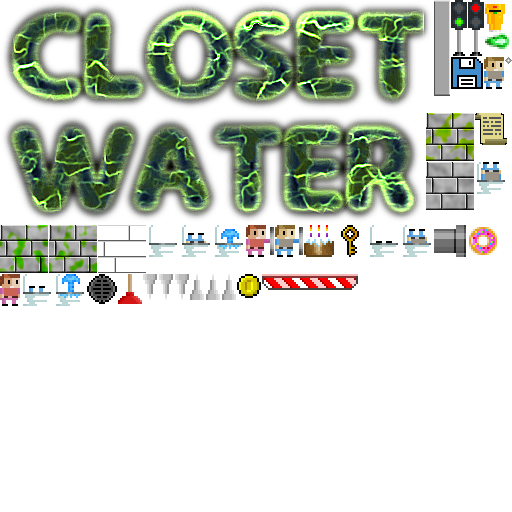
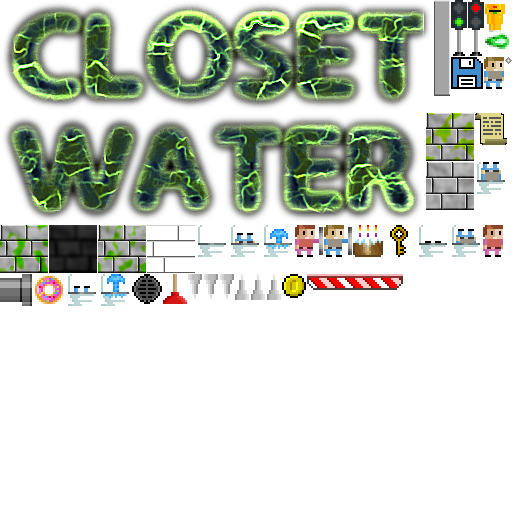
Draw background tiles.

Changed region(s): [[0.0, 0.4375, 1.0, 0.625]]

diff --git a/src/world/stage.c b/src/world/stage.c
@@ -22,6 +22,7 @@ Foundation, Inc., 59 Temple Place - Suite 330, Boston, MA  02111-1307, USA.
 
 static void logic(void);
 static void draw(void);
+static void drawBackground(void);
 static void drawHud(void);
 static void resetCloneData(void);
 static void resetStage(void);
@@ -37,6 +38,7 @@ static int cloneWarning;
 static int showTips;
 static int tipIndex;
 static int numTips;
+static AtlasImage *backgroundTile;
 
 void initStage(void)
 {
@@ -48,6 +50,8 @@ void initStage(void)
 	stage.entityTail = &stage.entityHead;
 	stage.particleTail = &stage.particleHead;
 	stage.cloneDataTail = &stage.cloneDataHead;
+	
+	backgroundTile = getAtlasImage("gfx/tilesets/brick/0.png", 1);
 	
 	initWipe(WT_WIPE_IN);
 	
@@ -253,7 +257,9 @@ static void resetStage(void)
 
 static void draw(void)
 {
-	drawRect(0, 0, SCREEN_WIDTH, SCREEN_HEIGHT, 64, 64, 64, 255);
+	drawRect(0, 0, SCREEN_WIDTH, SCREEN_HEIGHT, 64, 64, 64, 64);
+	
+	drawBackground();
 	
 	drawEntities(1);
 	
@@ -271,6 +277,24 @@ static void draw(void)
 	}
 	
 	drawWipe();
+}
+
+static void drawBackground(void)
+{
+	int x, y, n;
+	
+	for (x = 0 ; x < MAP_RENDER_WIDTH ; x++)
+	{
+		for (y = 0; y < MAP_RENDER_HEIGHT ; y++)
+		{
+			n = ((x ^ y) / 3) % 4;
+			
+			if (n == 3)
+			{
+				blitAtlasImage(backgroundTile, x * TILE_SIZE, y * TILE_SIZE, 0, SDL_FLIP_NONE);
+			}
+		}
+	}
 }
 
 static void drawTips(void)

diff --git a/src/world/stage.h b/src/world/stage.h
@@ -23,6 +23,7 @@ Foundation, Inc., 59 Temple Place - Suite 330, Boston, MA  02111-1307, USA.
 
 #include <time.h>
 
+extern void blitAtlasImage(AtlasImage *atlasImage, int x, int y, int center, SDL_RendererFlip flip);
 extern void destroyEntities(void);
 extern void destroyParticles(void);
 extern void doCamera(void);
@@ -35,6 +36,7 @@ extern void drawOutlineRect(int x, int y, int w, int h, int r, int g, int b, int
 extern void drawParticles(void);
 extern void drawRect(int x, int y, int w, int h, int r, int g, int b, int a);
 extern void drawText(int x, int y, int size, int align, SDL_Color color, const char *format, ...);
+extern AtlasImage *getAtlasImage(char *filename, int required);
 extern void drawWipe(void);
 extern void initClone(void);
 extern void initEntities(cJSON *root);
